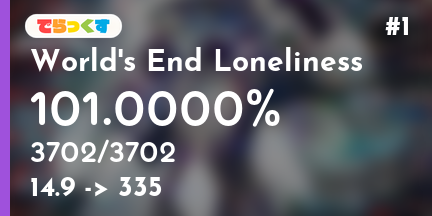
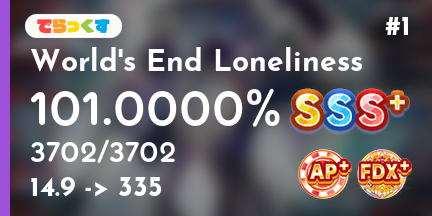
1

Changed region(s): [[0.662, 0.3889, 0.963, 0.6389], [0.6921, 0.6667, 0.963, 0.9444]]

diff --git a/modules/song_cell.py b/modules/song_cell.py
@@ -45,6 +45,33 @@ RATING_TABLE = [
     {"min": 1005000, "max": float('inf'), "offset": 224}
 ]
 
+# --- Rank辅助函数 ---
+RANK_TABLE = [
+    (0, "D"),
+    (100000, "D"),
+    (200000, "D"),
+    (300000, "D"),
+    (400000, "D"),
+    (500000, "C"),
+    (600000, "B"),
+    (700000, "BB"),
+    (750000, "BBB"),
+    (799999, "BBB"),
+    (800000, "A"),
+    (900000, "AA"),
+    (940000, "AAA"),
+    (969999, "AAA"),
+    (970000, "S"),
+    (980000, "S+"),
+    (989999, "S+"),
+    (990000, "SS"),
+    (995000, "SS+"),
+    (999999, "SS+"),
+    (1000000, "SSS"),
+    (1004999, "SSS"),
+    (1005000, "SSS+")
+]
+
 # --- 辅助函数 ---
 
 def calculate_rating(achievement, base):
@@ -94,6 +121,39 @@ def truncate_title(title, max_len=11.5):
         return title[:truncate_at] + '...'
     return title
 
+def get_rank_by_achievement(achievement):
+    """
+    根据达成率返回Rank字符串。
+    """
+    last_rank = "D"
+    for threshold, rank in RANK_TABLE:
+        if achievement < threshold:
+            break
+        last_rank = rank
+    return last_rank
+
+def rank_to_asset_name(rank):
+    """
+    根据Rank字符串返回assets下的图片文件名。
+    """
+    mapping = {
+        "D": "UI_GAM_Rank_D.png",
+        "C": "UI_GAM_Rank_C.png",
+        "B": "UI_GAM_Rank_B.png",
+        "BB": "UI_GAM_Rank_BB.png",
+        "BBB": "UI_GAM_Rank_BBB.png",
+        "A": "UI_GAM_Rank_A.png",
+        "AA": "UI_GAM_Rank_AA.png",
+        "AAA": "UI_GAM_Rank_AAA.png",
+        "S": "UI_GAM_Rank_S.png",
+        "S+": "UI_GAM_Rank_Sp.png",
+        "SS": "UI_GAM_Rank_SS.png",
+        "SS+": "UI_GAM_Rank_SSp.png",
+        "SSS": "UI_GAM_Rank_SSS.png",
+        "SSS+": "UI_GAM_Rank_SSSp.png"
+    }
+    return mapping.get(rank, "UI_GAM_Rank_D.png")
+
 # --- 主要生成函数 ---
 
 def generate_song_cell(
@@ -105,7 +165,9 @@ def generate_song_cell(
     dx_score: int,
     dx_total: int,
     base: float,
-    section_rank: int
+    section_rank: int,
+    fc_indicator: int = 0,
+    fs_indicator: int = 0
 ) -> Image.Image:
     """
     生成单个乐曲单元格的图像。
@@ -119,6 +181,8 @@ def generate_song_cell(
     :param dx_total: 总DX分数
     :param base: 谱面定数 (e.g., 14.9)
     :param section_rank: 在section中的排名 (e.g., 1)
+    :param fc_indicator: FC指示器 (0-4)
+    :param fs_indicator: FS指示器 (0-4)
     :return: PIL.Image.Image 对象
     """
     # 1. 创建画布
@@ -203,5 +267,128 @@ def generate_song_cell(
     text_width = text_bbox[2] - text_bbox[0]
     rank_x = 411 - text_width
     draw.text((rank_x, 14), rank_text, font=rank_font, fill=(255, 255, 255))
+
+    # 9.5. 绘制Rank图标
+    rank = get_rank_by_achievement(achievement)
+    rank_asset = rank_to_asset_name(rank)
+    rank_icon_path = os.path.join(ASSETS_DIR, rank_asset)
+    try:
+        rank_icon = Image.open(rank_icon_path).convert('RGBA')
+        # 等比缩放到137x54的95%内
+        scale_factor = 0.95
+        target_w, target_h = int(137 * scale_factor), int(54 * scale_factor)
+        w, h = rank_icon.size
+        scale = min(target_w / w, target_h / h)
+        new_w, new_h = int(w * scale), int(h * scale)
+        rank_icon = rank_icon.resize((new_w, new_h), Image.Resampling.LANCZOS)
+        # 居中贴到(276,85)的区域
+        paste_x = 276 + (137 - new_w) // 2 + 5
+        paste_y = 85 + (54 - new_h) // 2
+        canvas.paste(rank_icon, (paste_x, paste_y), rank_icon)
+    except FileNotFoundError:
+        print(f"Rank图标未找到: {rank_icon_path}")
+
+    # 指示器整体缩放比例
+    indicator_scale = 1.2
+
+    # 9.6. 绘制两个空白底图标
+    blank_icon_path = os.path.join(ASSETS_DIR, 'UI_MSS_MBase_Icon_Blank.png')
+    for pos_x in [302, 360]:
+        try:
+            # 原始参数
+            base_x, base_y, base_w, base_h = pos_x, 152, 44, 44
+            # 以中心为基准缩放
+            center_x = base_x + base_w // 2
+            center_y = base_y + base_h // 2
+            new_w = int(base_w * indicator_scale)
+            new_h = int(base_h * indicator_scale)
+            new_x = center_x - new_w // 2
+            new_y = center_y - new_h // 2
+            blank_icon = Image.open(blank_icon_path).convert('RGBA')
+            blank_icon = blank_icon.resize((new_w, new_h), Image.Resampling.LANCZOS)
+            canvas.paste(blank_icon, (new_x, new_y), blank_icon)
+        except FileNotFoundError:
+            print(f"空白底图标未找到: {blank_icon_path}")
+
+    # 指示器整体偏移量，便于整体调整
+    indicator_offset_x = 2
+    indicator_offset_y = 2
+    fc_indicator_extra_offset_y = 1
+
+    # 9.7. 绘制fc/ap图标
+    fc_icon_map = {
+        1: ("UI_MSS_MBase_Icon_FC.png", 301, 149, 44, 44, 65, 65),
+        2: ("UI_MSS_MBase_Icon_FCp.png", 301, 149, 44, 44, 70, 65),
+        3: ("UI_MSS_MBase_Icon_AP.png", 301, 149, 44, 44, 65, 65),
+        4: ("UI_MSS_MBase_Icon_APp.png", 301, 149, 44, 44, 70, 65)
+    }
+    if fc_indicator in fc_icon_map:
+        icon_name, x, y, w, h, raw_w, raw_h = fc_icon_map[fc_indicator]
+        # 以中心为基准缩放
+        center_x = x + w // 2 + indicator_offset_x
+        center_y = y + h // 2 + indicator_offset_y + fc_indicator_extra_offset_y
+        new_w = int(w * indicator_scale)
+        new_h = int(h * indicator_scale)
+        x = center_x - new_w // 2
+        y = center_y - new_h // 2
+        icon_path = os.path.join(ASSETS_DIR, icon_name)
+        try:
+            icon_img = Image.open(icon_path).convert('RGBA')
+            # 判断是否为带+图标
+            if raw_w == 70:
+                scale = min(new_w / 65, new_h / 65)
+                img_w = int(70 * scale)
+                img_h = int(65 * scale)
+                icon_img = icon_img.resize((img_w, img_h), Image.Resampling.LANCZOS)
+                paste_x = x + (new_w - int(65 * scale)) // 2 - int((70 - 65) * scale // 2)
+                paste_y = y + (new_h - img_h) // 2
+            else:
+                scale = min(new_w / raw_w, new_h / raw_h)
+                img_w = int(raw_w * scale)
+                img_h = int(raw_h * scale)
+                icon_img = icon_img.resize((img_w, img_h), Image.Resampling.LANCZOS)
+                paste_x = x + (new_w - img_w) // 2
+                paste_y = y + (new_h - img_h) // 2
+            canvas.paste(icon_img, (paste_x, paste_y), icon_img)
+        except FileNotFoundError:
+            print(f"FC/AP图标未找到: {icon_path}")
+
+    # 9.8. 绘制fs/fdx图标
+    fs_icon_map = {
+        1: ("UI_MSS_MBase_Icon_FS.png", 358, 150, 44, 44, 65, 65),
+        2: ("UI_MSS_MBase_Icon_FSp.png", 358, 150, 44, 44, 70, 65),
+        3: ("UI_MSS_MBase_Icon_FSD.png", 358, 150, 44, 44, 65, 65),
+        4: ("UI_MSS_MBase_Icon_FSDp.png", 361, 150, 44, 44, 70, 65),
+        5: ("UI_MSS_MBase_Icon_SP.png", 358, 150, 44, 44, 65, 65)
+    }
+    if fs_indicator in fs_icon_map:
+        icon_name, x, y, w, h, raw_w, raw_h = fs_icon_map[fs_indicator]
+        # 以中心为基准缩放
+        center_x = x + w // 2 + indicator_offset_x
+        center_y = y + h // 2 + indicator_offset_y
+        new_w = int(w * indicator_scale)
+        new_h = int(h * indicator_scale)
+        x = center_x - new_w // 2
+        y = center_y - new_h // 2
+        icon_path = os.path.join(ASSETS_DIR, icon_name)
+        try:
+            icon_img = Image.open(icon_path).convert('RGBA')
+            if raw_w == 70:
+                scale = min(new_w / 65, new_h / 65)
+                img_w = int(70 * scale)
+                img_h = int(65 * scale)
+                icon_img = icon_img.resize((img_w, img_h), Image.Resampling.LANCZOS)
+                paste_x = x + (new_w - int(65 * scale)) // 2 - int((70 - 65) * scale // 2)
+                paste_y = y + (new_h - img_h) // 2
+            else:
+                scale = min(new_w / raw_w, new_h / raw_h)
+                img_w = int(raw_w * scale)
+                img_h = int(raw_h * scale)
+                icon_img = icon_img.resize((img_w, img_h), Image.Resampling.LANCZOS)
+                paste_x = x + (new_w - img_w) // 2
+                paste_y = y + (new_h - img_h) // 2
+            canvas.paste(icon_img, (paste_x, paste_y), icon_img)
+        except FileNotFoundError:
+            print(f"FS/FDX图标未找到: {icon_path}")
 
     return canvas

diff --git a/test_generator.py b/test_generator.py
@@ -20,7 +20,9 @@ def main():
         "dx_score": 3702,
         "dx_total": 3702,
         "base": 14.9,
-        "section_rank": 1
+        "section_rank": 1,
+        "fc_indicator": 4,   # 4: AP+
+        "fs_indicator": 4    # 4: FSD+
     }
 
     print("正在生成图片...")
